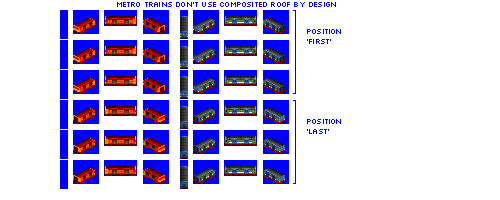
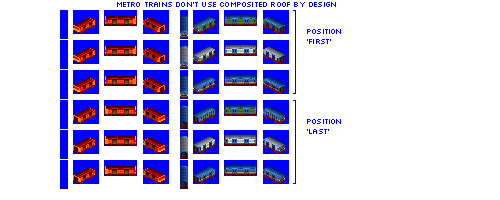
Change: larger metro units complete

diff --git a/src/vehicles/pony/bankside.py b/src/vehicles/pony/bankside.py
@@ -14,7 +14,7 @@ def main(roster_id, **kwargs):
         },
         gen=3,
         default_livery_extra_docs_examples=[("COLOUR_RED", "COLOUR_BLUE")],
-        sprites_complete=False,
+        sprites_complete=True,
     )
 
     consist.add_unit(
@@ -27,7 +27,7 @@ def main(roster_id, **kwargs):
         repeat=2,
     )
 
-    consist.description = """."""
-    consist.foamer_facts = """ """
+    consist.description = """Is it the screech of brakes?"""
+    consist.foamer_facts = """London Underground S Stock"""
 
     return consist

diff --git a/src/vehicles/pony/canary.py b/src/vehicles/pony/canary.py
@@ -13,7 +13,7 @@ def main(roster_id, **kwargs):
             "METRO": 1100,
         },
         gen=3,
-        sprites_complete=False,
+        sprites_complete=True,
     )
 
     # should be 4 short units, not 2 long but eh
@@ -26,7 +26,7 @@ def main(roster_id, **kwargs):
         repeat=2,
     )
 
-    consist.description = """."""
-    consist.foamer_facts = """"""
+    consist.description = """Do Mondays go on slow-time?"""
+    consist.foamer_facts = """London Underground S Stock"""
 
     return consist

diff --git a/src/vehicles/pony/ravensbourne.py b/src/vehicles/pony/ravensbourne.py
@@ -26,7 +26,7 @@ def main(roster_id, **kwargs):
         repeat=2,
     )
 
-    consist.description = """."""
-    consist.foamer_facts = """ """
+    consist.description = """Is that lamp light blinking?"""
+    consist.foamer_facts = """Metropolitan Railway electric multiple units"""
 
     return consist

diff --git a/src/vehicles/pony/poplar.py b/src/vehicles/pony/poplar.py
@@ -25,7 +25,7 @@ def main(roster_id, **kwargs):
         repeat=2,
     )
 
-    consist.description = """."""
-    consist.foamer_facts = """ """
+    consist.description = """"""
+    consist.foamer_facts = """Metropolitan Railway electric multiple units"""
 
     return consist

diff --git a/src/vehicles/pony/hammersmith.py b/src/vehicles/pony/hammersmith.py
@@ -25,7 +25,7 @@ def main(roster_id, **kwargs):
         repeat=2,
     )
 
-    consist.description = """."""
-    consist.foamer_facts = """ """
+    consist.description = """"""
+    consist.foamer_facts = """London Underground R Stock"""
 
     return consist

diff --git a/src/vehicles/pony/wandle.py b/src/vehicles/pony/wandle.py
@@ -26,7 +26,7 @@ def main(roster_id, **kwargs):
         repeat=2,
     )
 
-    consist.description = """."""
-    consist.foamer_facts = """ """
+    consist.description = """"""
+    consist.foamer_facts = """London Underground R Stock"""
 
     return consist
